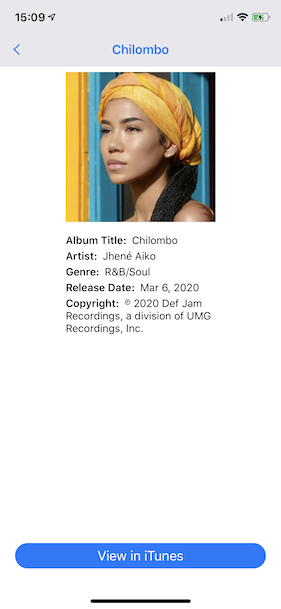
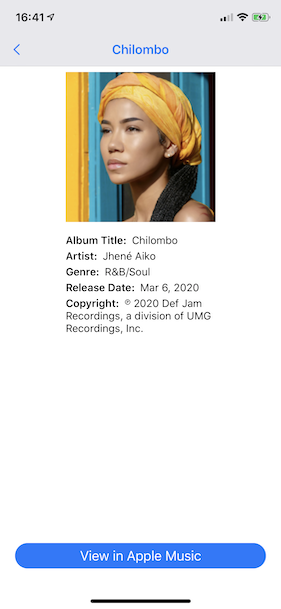
apple music not itunes

Changed region(s): [[0.2847, 0.9048, 0.7117, 0.936], [0.0569, 0.0, 0.1993, 0.0624]]

diff --git a/Top100Albums/UI/Screens/AlbumDetails/AlbumDetailsViewController.swift b/Top100Albums/UI/Screens/AlbumDetails/AlbumDetailsViewController.swift
@@ -28,7 +28,7 @@ final class AlbumDetailsViewController: BaseViewController {
   private lazy var itunesButton: HapticCapsuleButton = {
     let button = HapticCapsuleButton()
     button.backgroundColor = UIColor.systemBlue
-    button.setTitle("View in iTunes", for: .normal)
+    button.setTitle("View in Apple Music", for: .normal)
     button.addTarget(self, action: #selector(self.itunesButtonPressed), for: .touchUpInside)
     return button
   }()
